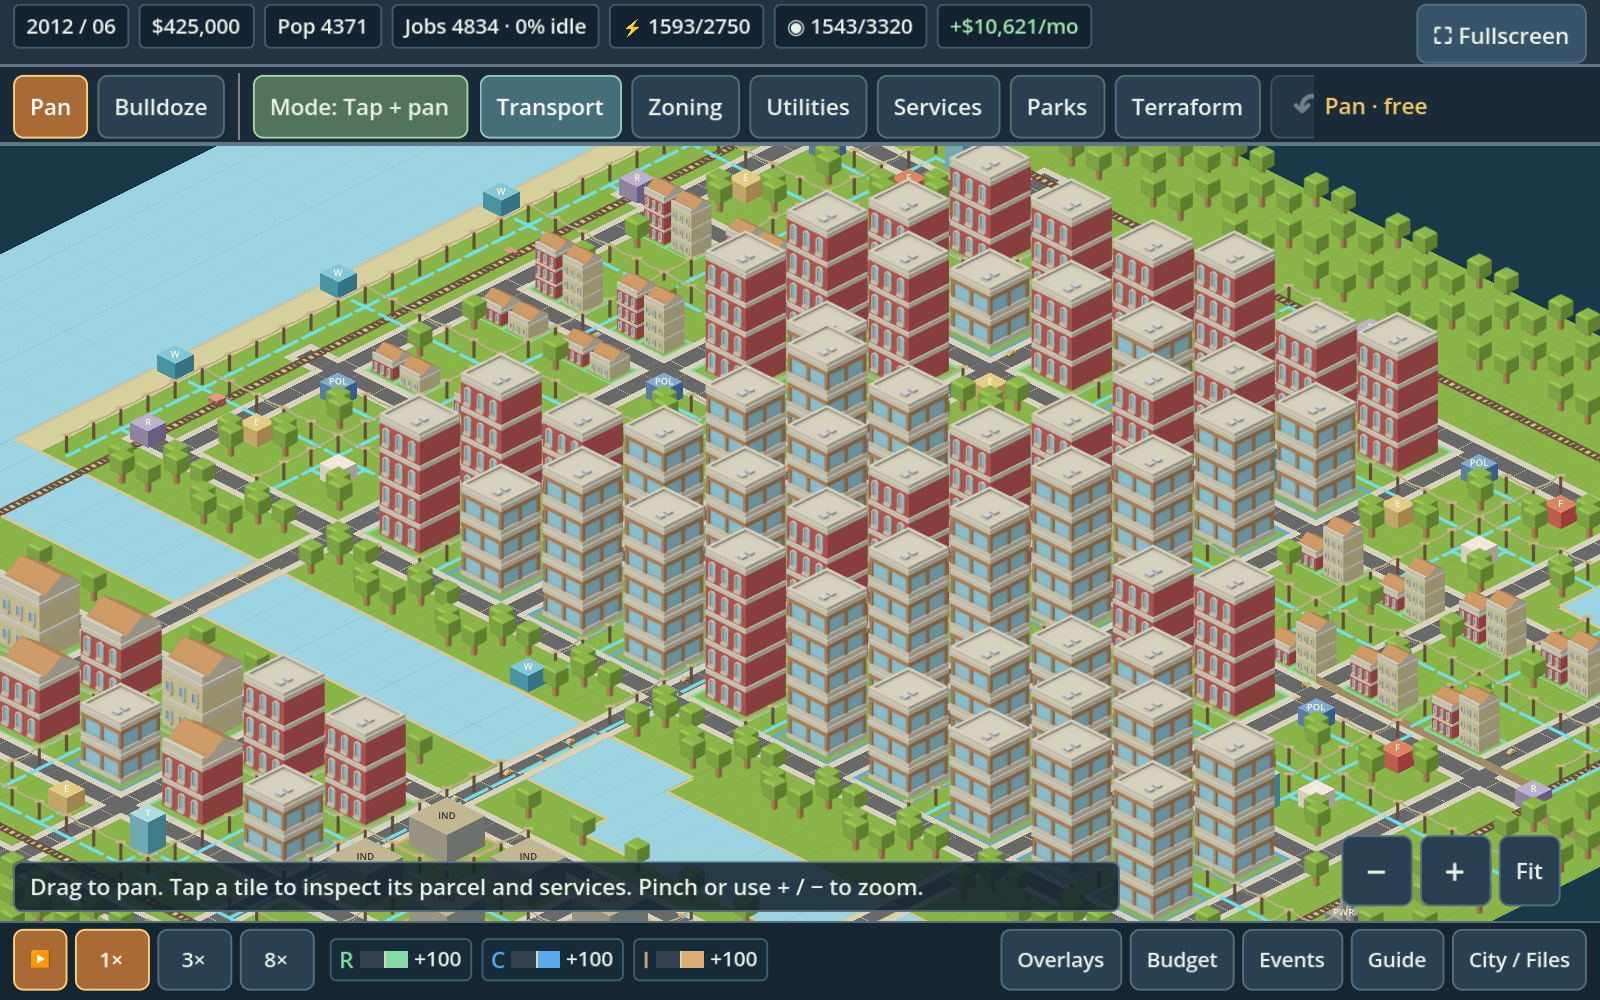
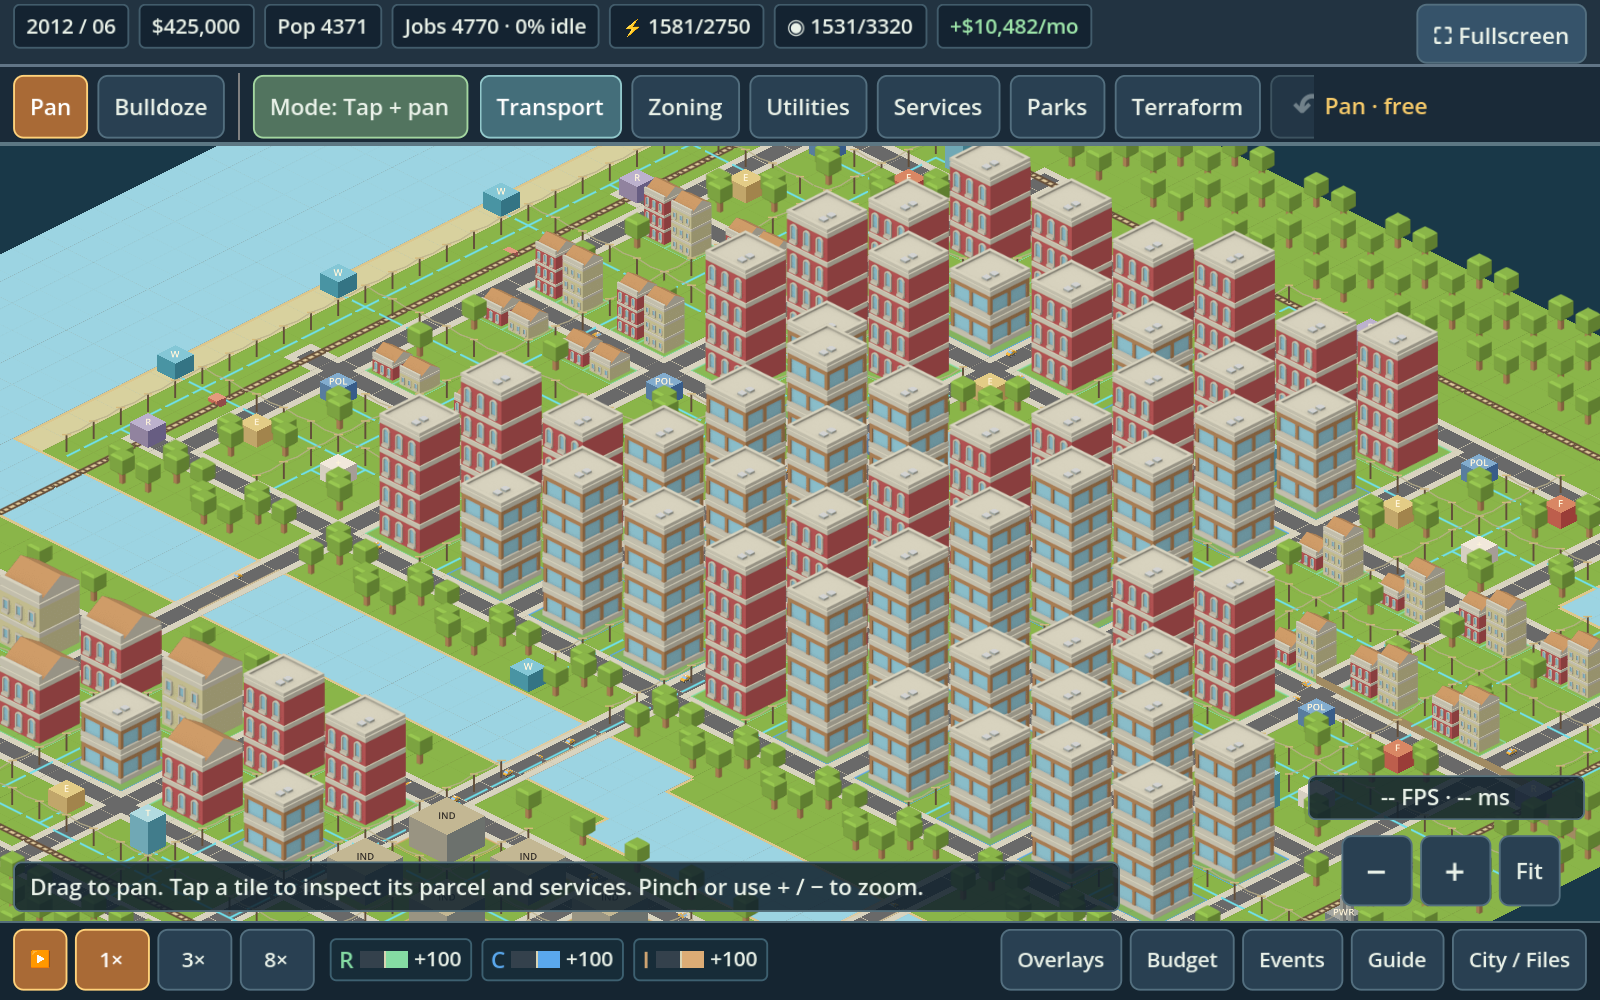
Remove native logistics subtype and refresh example cities [skip ci]

diff --git a/examples/harbor-city/README.md b/examples/harbor-city/README.md
@@ -4,17 +4,17 @@ Download **MetroForge-Harbor-City.zip**, extract it, and import **MetroForge-Har
 
 ![Harbor City overview](Harbor-City-Overview.png)
 
-The prepared city starts with **4,371 residents**, **4,834 jobs**, **108 developed properties**, **$425,000** and a **+$10,621 monthly surplus**. It has **60 parks**, **six stations**, **eight trains**, **70 cars**, three road bridges and two rail crossings. Every developed property has electricity, water and road access.
+The prepared city starts with **4,371 residents**, **4,770 jobs**, **108 developed properties**, **$425,000** and a **+$10,482 monthly surplus**. It has **60 parks**, **six stations**, **eight trains**, **70 cars**, three road bridges and two rail crossings. Every developed property has electricity, water and road access.
 
-The original 52 × 52 map now contains distinct neighborhoods: a dense Downtown, Midtown apartments, North Quarter, Central Park/ Parkside, elevated Hillcrest, garden neighborhoods, Eastbank Quays, Southbank and the freight/manufacturing district. Plants on both banks, waterfront pumps, water storage, service alleys and neighborhood civic campuses support the city.
+The original 52 × 52 map now contains distinct neighborhoods: a dense Downtown, Midtown apartments, North Quarter, Central Park/ Parkside, elevated Hillcrest, garden neighborhoods, Eastbank Quays, Southbank and the manufacturing district. Plants on both banks, waterfront pumps, water storage, service alleys and neighborhood civic campuses support the city.
 
 ![Downtown detail](Harbor-City-Downtown.png)
 
 ## Validation
 
-This is a deliberately prepared showcase, with matured lots and a seeded treasury. Normal growth and traffic remain active; random disasters are disabled. Native export/import and the actual game file-selection callback were checked. After two simulated years it reached **5,395 residents** and **$733,120**, with zero developed properties lacking power/water and no abandoned or burning buildings. See `validation.json` for starting and ending metrics. Desktop checks do not establish phone frame rate.
+This is a deliberately prepared showcase, with matured lots and a seeded treasury. Normal growth and traffic remain active; random disasters are disabled. Native export/import and the actual game file-selection callback were checked. After two simulated years it reached **5,290 residents** and **$727,656**, with zero developed properties lacking power/water and no abandoned or burning buildings. See `validation.json` for starting and ending metrics. Desktop checks do not establish phone frame rate.
 
-The images are captures from the native game. No APK changes are required for this save.
+The examples and native-game captures have been refreshed to use ordinary industry after Logistics was removed. The images are captures from the native game. No APK changes are required for this save.
 
 To regenerate from the repository root (Godot 4.6.3):
 

diff --git a/godot/README.md b/godot/README.md
@@ -44,7 +44,7 @@ The two apps use different private storage, so existing browser local storage do
 
 ## Controls
 
-The zoning palette has three choices: Housing zone, Business zone and Industrial zone. New properties currently use the existing house, shop and light-industry rules respectively; automatic selection of building subtypes is not implemented. Imported apartments, offices, logistics and heavy-industry properties retain their types. Painting the same zone family preserves an existing property without charging or resetting its development. Logistics remains supported in saved cities while its role as a separate player-facing option is being considered.
+The zoning palette has three choices: Housing zone, Business zone and Industrial zone. New properties currently use the existing house, shop and light-industry rules respectively; automatic selection of building subtypes is not implemented. Apartments, offices and heavy industry remain supported building subtypes. Painting the same zone family preserves an existing property without charging or resetting its development. Logistics has been removed from tools, simulation rules and accepted save subtypes; this source revision targets fresh saves.
 
 Tap with a construction tool to place one tile; dragging in Tap + pan mode moves the camera. Paint mode commits a connected stroke on release. Two fingers pan and pinch without spending money. Fit shows the whole city; +/− and pinching zoom into a district. The native controls include all current tools, overlays, budgets, events, guide, pause/speeds, selection details, files and construction-only undo/redo.
 

diff --git a/examples/README.md b/examples/README.md
@@ -1,8 +1,10 @@
 # MetroForge example cities
 
-Import these city saves in **MetroForge Godot 0.3.1** using **City / Files → Import JSON file**. Extract the chosen ZIP first. Save/export your current city if you want to keep it.
+Import these city saves in **MetroForge Godot** using **City / Files → Import JSON file**. Extract the chosen ZIP first. Save/export your current city if you want to keep it.
 
-- **[Harbor City — larger showcase](harbor-city/)**: 4,371 residents, 4,834 jobs, 108 developed properties, 60 parks, six rail stops, eight trains and 70 cars. Includes a native-game preview and validation report.
-- **[Small test city](MetroForge-Test-City.zip)**: the earlier example with 176 residents, 222 jobs and $250,000. Choose `MetroForge-Test-City-Complete.json` from its extracted folder.
+- **[Harbor City — larger showcase](harbor-city/)**: 4,371 residents, 4,770 jobs, 108 developed properties, 60 parks, six rail stops, eight trains and 70 cars. Includes a native-game preview and validation report.
+- **[Small test city](MetroForge-Test-City.zip)**: the earlier example with 181 residents, 212 jobs and $250,000. Choose `MetroForge-Test-City-Complete.json` from its extracted folder.
 
 Both use the existing 52 × 52 map and have been checked through the native file-import callback. The ZIP filenames and enclosed JSON names distinguish them from source/asset catalog files.
+
+These refreshed examples use ordinary industry and contain no Logistics properties.

diff --git a/godot/docs/performance-0.3.2.md b/godot/docs/performance-0.3.2.md
@@ -2,6 +2,8 @@
 
[1 lines of base64/hex data omitted]
 
+The fixture hash above refers to the historical 0.3.2 benchmark. For reproduction, retrieve its archive and native source from commit `d2f131367f60aac65a67fdc0c1c3373e69403707`; the current example cities were rebuilt with ordinary industry after Logistics was removed.
+
 ## Cause and changes
 
 The 0.3.1 fresh-city benchmark missed the populated-city bottleneck. Harbor submitted 6,169 polygons, 5,428 polylines, 836 sprites and 60 labels across 353 static layers. Caching commands avoided rebuilding them every frame but still left roads, rails, pipes, poles and wires as thousands of separate GPU submissions. The full view submitted approximately 20,000 draw calls even with simulation paused.
